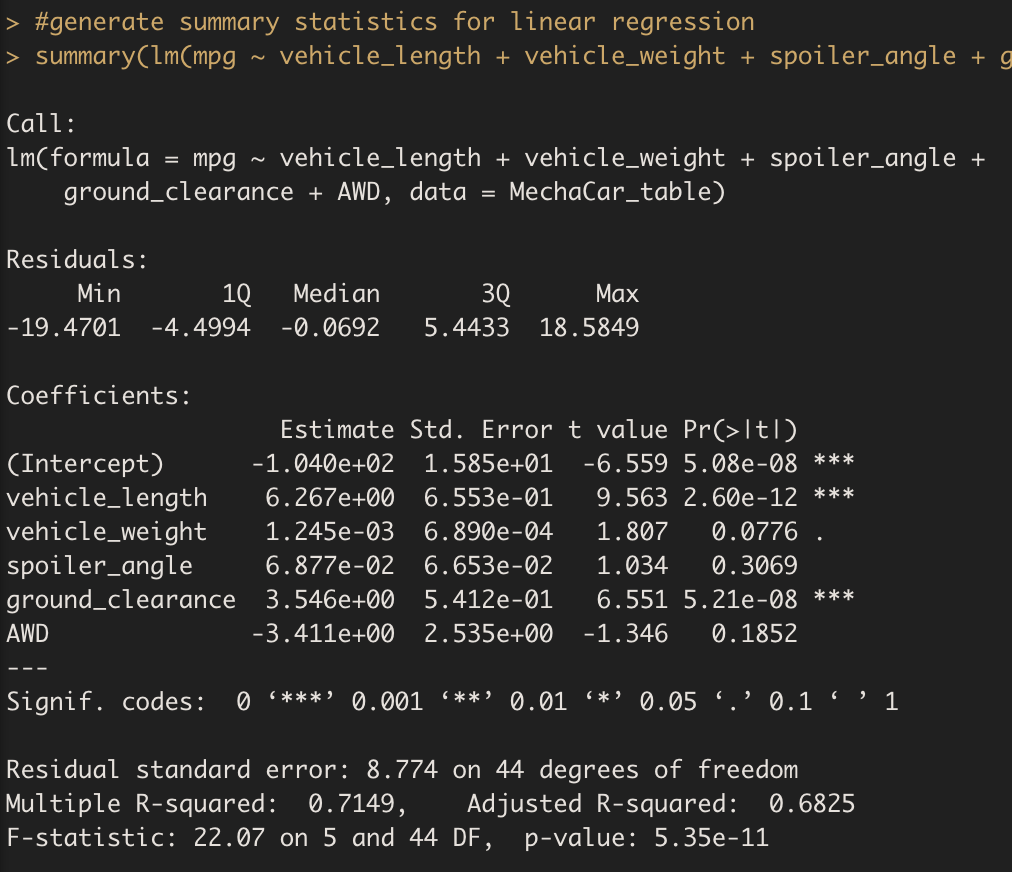
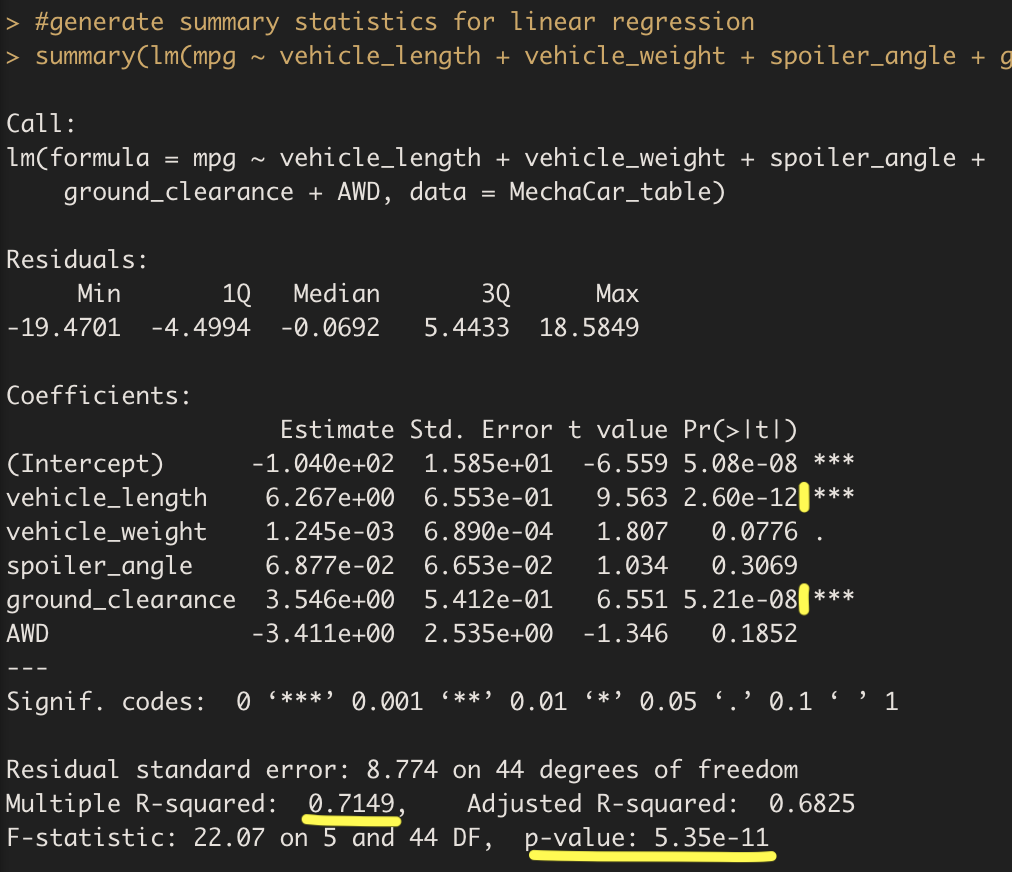
Updated readme with complete analysis

diff --git a/README.md b/README.md
@@ -2,34 +2,54 @@
 - Statistical Analysis on automotive data using R. 
 - MechaCar_MPG and Suspension_Coil datasets were provided.
 ## **Linear Regression to Predict MPG**
-- sdfdf
+- Multiple linear regression was performed to understand the effect of independent variables Vehicle length, vehicle weight, spoiler angle, ground clearance, drive train (AWD) on the dependent variable vehicle performance measured in the form of "MPG". Results summary is as shown below :
 - <img src = "Resources/SummaryStats_Lm.png"></img>
--
--
--
+- As we can observe from the P values for each of the independent variable in the "Pr(>|t|)" column, the 2 values marked with yellow highlight to its right are the ones which are way too less than the assumed significance level of 0.05. <b>Hence statistically the 2 independent variables "vehicle_length" and "ground_clearance" are providing non-random amount of variance to the mpg values in the dataset.</b> 
+- Also looking at the summary (2 values underlined at the bottom 2 lines of the screenshot) Multiple R-squared value which is 0.7149 with p-value being significant at 5.35e-11 (way too below significance level of 0.05), we can easily infer that <b>slope of the linear model is NOT 0.</b> With R-squared being 0.71, we can see the linear regression line to be a positive slope. 
+- <b>This multiple linear regression model surely predicts the mpg of Mechacar prototypes effectively as the R-squared value is 0.71 and p-value is significant.</b> Though there are variables like vehicle_weight, spoiler_angle and AWD which have P values much higher than 0.05 are providing random amounts of variance to the model and hence can be handled by removing them from the model as they dont have any impact on MPG. Also the P value of intercept is significant with 5.08e-08 which indicates that there are other variables and factors that contribute to the variation in MPG that have not been included in this model. Thus lack of significant variables is evidence of overfitting of the model performing well with current dataset but can fail to generalise and predict future data correctly. Hence other significant variables should be identified and its measurements should be added for future analysis.
 ## **Summary Statistics on Suspension Coils**
-- sdfdsf
+- Suspension coils were manufactured in 3 different lots and data of the coils were collected for all the 3 lots. On this data, basic stats Mean, Median, Variance and Standard Deviation were calculated for whole set of data and also grouping separately by each lot. The Stats summary for complete dataset is as follows :
 - <img src = "Resources/TotalSummary_SCoil.png"></img>
--
+- For the overall dataset, mean is a bit less than Median and variance for the whole dataset comes to 62.29 PSI. <b>As Variance is below 100 PSI, it meets the design specification.</b> 
+- Though this variance is bit below the threshold variance limit set at 100 PSI, it is exceeding the 50% of the set limit. This raises the curiosity to see if this deviation is seen in all the 3 lots manufactured? Summary stats for each lot is as follows :
 - <img src = "Resources/LotSummary_SCoil.png"></img>
--
--
--
+- The Lot1 coils seem to be the best lot manufactured with no difference in Mean and Median with value of 1500.0. Also the variance is 0.98 PSI a bit less than 1 PSI.
+- The Lot2 coils seems to be just fine with Mean being 1500.20 and Median being 1500.0. Variance for Lot2 is around 7.5 PSI but seems acceptable when compared with variance limit set at 100 PSI. If only Lot1 and Lot2 were considered for the summary, overall variance would have stayed within 10% of the variance limit. <b>Hence Lot 1 and Lot2 meet the design specification of MechaCar very well.</b>
+- The Lot3 coils seem to be pretty bad with a variance of 170 PSI very much higher than the variance limit of 100 PSI. Hence Lot3 coils are not at all acceptable. These coils will be rejected and will not be used in MechaCar. <b>Lot3 doesnot meet the design specification.</b> Also Lot3 is a major contributor in making the overall variance as 62.3 PSI much higher than 50% of the set variance limit. As this is a bothering situation, Lot3 manufacturing process needs a thorough review to figure out and fix the steps contributing to this big error. Most common guess would be, as manufacturing units involve lot of wear and tear due to friction, maintainence of machinery will have to be taken up with high priority as we can see the trend of quality going down exponentially from Lot2 to Lot3. If unattended, situation can be worst and irrepairable.
 ## **T-Tests on Suspension Coils**
-- sdfsdf
+- T-tests were conducted on suspension coil dataset to determine if all manufacturing lots and each lot individually are statistically different from the population mean of 1500 PSI. The results are as follows for t-test on all lots :
 - <img src = "Resources/t-test_AllLots.png"></img>
--
+- T-test for all lots has a mean of 1498.78 PSI bit lesser than population mean of 1500 PSI. The p-value is 0.06 which is bit higher than desired significance level of 0.05. Though p-value has dropped very close to significance level, its still a bit higher hence null hypothesis is still true.
 - <img src = "Resources/t-test_Lot1.png"></img>
-- 
+-  T-test for Lot1 is the most ideal similar to the observation in deliverable 2. The mean is 1500 PSI and p-value of 1, null hypothesis of sample mean being same as population mean (1500 PSI) is totally true for Lot1.
 - <img src = "Resources/t-test_Lot2.png"></img>
-- 
+- T-test for Lot2 has mean of 1500.2 PSI and p-value of 0.6 much higher than 0.05, hence null hypothesis still holds good.
 - <img src = "Resources/t-test_Lot3.png"></img>
--
--
--
+- T-test for Lot3 has mean of 1496.14 PSI and p-value of 0.04 lesser than significance level 0.05. As p-value is less than 0.05 null hypothesis is rejected for Lot3. Lot3 has a different mean than the population mean of 1500 PSI.  This observation for Lot3 is in lines with deliverable 2 inference for Lot3.
 ## **Study Design : MechaCar vs Competition**
--
--
--
+- AutosRUs' is coming up with a new car model MechaCar with specific objectives in mind. MechaCar is a brand which wants to take on small segment automotive market targeting the customers involved in short distance city commute on a daily basis. It intends to lure customers by keeping the cost light on the pocket, at the sametime not compromising on the comfort and ease of use.
+- With these objectives in mind, AutosRUs' team come up with list of metrics to be analysed : <b>cost, city fuel efficiency, maintenance cost, interior comfort, ease of use features provided in the vehicle.</b> 
+- <b>Cost, City fuel efficiency and maintenance cost are numerical continuous data.</b>
+- <b>Interior comfort and Ease of use features are categorical - nominal data.</b>
+- Based on the type of data dealt as a metric, different type of tests will have to be used to analyse different datasets.
+- <b>A one sample t-test is ideal to analyse Cost, city fuel efficiency and maintenance cost of MechaCar with competition. 
+    - Sample is considered as MechaCar and population is considered as competition
+    - Each of the numerical metric of MechaCar is tested with corresponding metric of competition using one sample t-test.</b> 
+    - T-test-Cost : Cost of Mechacar v/s costs of competition
+        - Null Hypothesis = Ho : No statistical difference between MechaCar mean Cost & Competition mean cost
+        - Alternative Hypothesis = Ha : MechaCar mean Cost is significantly less than competition mean cost
+    - T-test-Fuel : City Fuel Efficiency of Mechacar v/s City Fuel efficiency of competition
+        - Null Hypothesis = Ho : No statistical difference between MechaCar mean city fuel efficiency & Competition mean city fuel efficiency
+        - Alternative Hypothesis = Ha : MechaCar mean city fuel efficiency is significantly more than competition mean city fuel efficiency
+    - T-test-Maintenance : Maintenance cost of MechaCar v/s Maintenance cost of competition
+        - Null Hypothesis = Ho : No statistical difference between MechaCar mean maintenance cost & Competition mean maintenance cost
+        - Alternative Hypothesis = Ha : MechaCar mean maintenance cost is significantly less than competition mean maintenance cost
+    - <b>Data : Numerical data collected for cost, city fuel efficiency and maintenance cost from customers on MechaCar and its competition models over a period of time say an year or so can be used as dataset. Another way to collect this dataset especially cost and maintenance cost is through accessing the company records (sales and service to be specific). Cost of the car might be easily available as historical purchase price for cars is tracked.</b>
+- <b>A two-way ANOVA test is ideal to analyse interior comfort and ease of use features of MechaCar with competition. 
+    - MechaCar and its competition are comsidered as multiple samples or groups
+    - Vehicle rating is tested based on 2 different independent variables interior comfort and ease of use features using 2-way ANOVA test</b>
+        - Null Hypothesis = Ho : Mean Vehicle ratings are equal for MechaCar & its competition
+        - Alternative Hypothesis = Ha : Mean Vehicle rating of Mechacar is higher than its competition
+    - <b>Data : Different categories for interior comfort and ease of use features should be identified and listed. Based on these categories customer ratings should be collected for MechaCar and its competition car models. Vehicle rating collected this way will form the dataset of Vehicle ratings for various models of car including MechaCar based on interior comfort and ease of use features. Data collected like this for a time period like an year or so which ever is feasible can be used for the analysis.</b>
 ---
 ---
